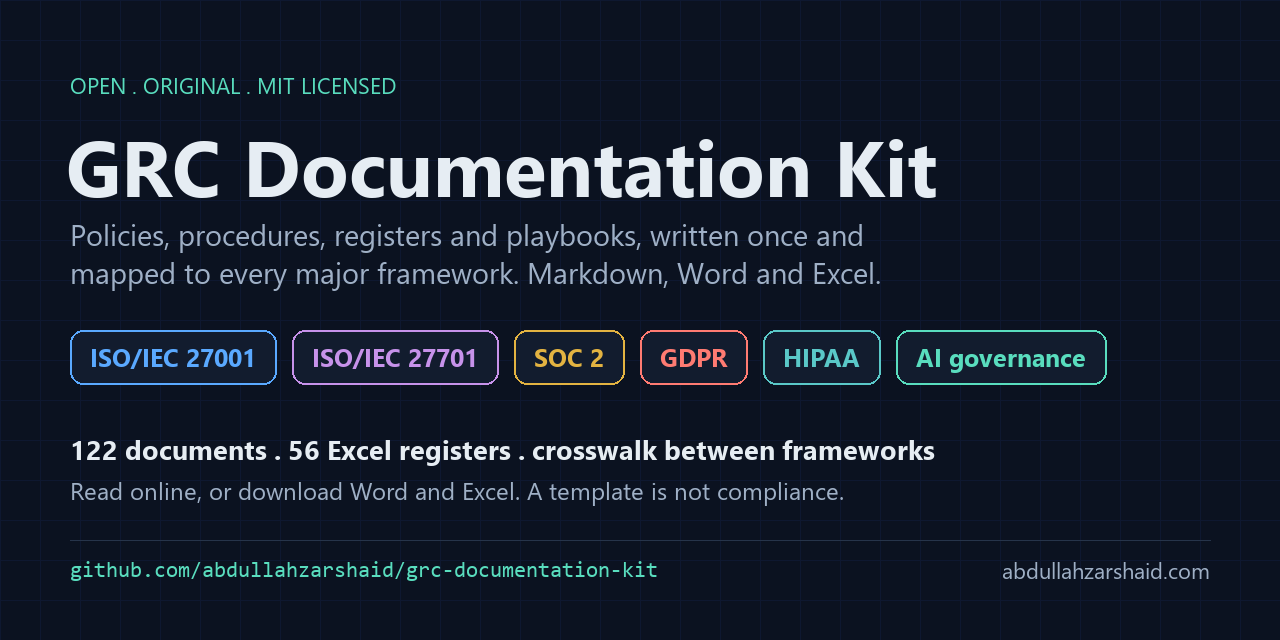
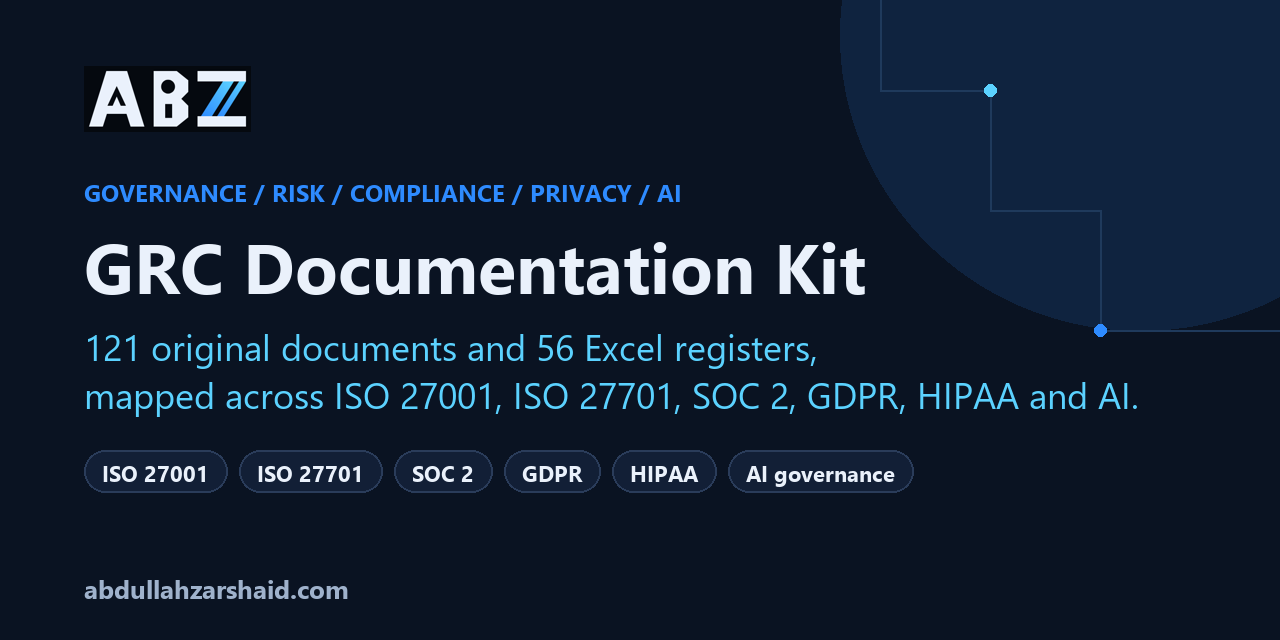
Unify the kit to the blue brand accent and refresh the social card

diff --git a/docs/index.html b/docs/index.html
@@ -12,12 +12,12 @@
 <meta name="twitter:description" content="Open, original templates for ISO 27001, ISO 27701, SOC 2, GDPR, HIPAA and AI governance.">
 <meta name="twitter:image" content="https://abdullahzarshaid.github.io/grc-documentation-kit/social-preview.png">
 <style>
-:root{--bg:#0b1220;--card:#121c2e;--ink:#e6edf3;--muted:#acbace;--acc:#59ddbe;--line:#26344a}
+:root{--bg:#0b1220;--card:#121c2e;--ink:#e6edf3;--muted:#acbace;--acc:#5bd2ff;--line:#26344a}
 *{box-sizing:border-box}body{margin:0;background:var(--bg);color:var(--ink);font:17px/1.65 system-ui,-apple-system,"Segoe UI",sans-serif}
 .wrap{max-width:1100px;margin:0 auto;padding:6vh 24px 48px}.eyebrow{letter-spacing:3px;font-size:12px;color:var(--acc);margin:0 0 10px}
 h1{font-size:clamp(30px,5vw,46px);line-height:1.15;margin:0 0 6px}h2.sub{font-weight:400;color:var(--muted);font-size:clamp(18px,2.6vw,24px);margin:0 0 18px}
 p.lead{max-width:820px;color:var(--muted)}.btns{display:flex;flex-wrap:wrap;gap:12px;margin:22px 0 10px}
-.button{display:inline-block;padding:13px 22px;border:1px solid var(--acc);border-radius:9px;color:var(--acc);text-decoration:none;font-weight:600}.button.primary{background:var(--acc);color:#07111a}.button:hover{filter:brightness(1.08)}
+.button{display:inline-block;padding:13px 22px;border:1px solid var(--acc);border-radius:9px;color:var(--acc);text-decoration:none;font-weight:600}.button.primary{background:#2e8bff;border-color:#2e8bff;color:#fff}.button:hover{filter:brightness(1.08)}
 .meta{color:var(--muted);font-size:14px;margin:6px 0 30px}h3{margin:38px 0 12px;font-size:22px}
 .grid{display:grid;grid-template-columns:repeat(auto-fill,minmax(320px,1fr));gap:14px}
 .card{display:block;background:var(--card);border:1px solid var(--line);border-radius:12px;padding:16px 18px;color:var(--ink);text-decoration:none}.card:hover{border-color:var(--acc)}

diff --git a/docs/index_template.html b/docs/index_template.html
@@ -12,12 +12,12 @@
 <meta name="twitter:description" content="Open, original templates for ISO 27001, ISO 27701, SOC 2, GDPR, HIPAA and AI governance.">
 <meta name="twitter:image" content="https://abdullahzarshaid.github.io/grc-documentation-kit/social-preview.png">
 <style>
-:root{--bg:#0b1220;--card:#121c2e;--ink:#e6edf3;--muted:#acbace;--acc:#59ddbe;--line:#26344a}
+:root{--bg:#0b1220;--card:#121c2e;--ink:#e6edf3;--muted:#acbace;--acc:#5bd2ff;--line:#26344a}
 *{box-sizing:border-box}body{margin:0;background:var(--bg);color:var(--ink);font:17px/1.65 system-ui,-apple-system,"Segoe UI",sans-serif}
 .wrap{max-width:1100px;margin:0 auto;padding:6vh 24px 48px}.eyebrow{letter-spacing:3px;font-size:12px;color:var(--acc);margin:0 0 10px}
 h1{font-size:clamp(30px,5vw,46px);line-height:1.15;margin:0 0 6px}h2.sub{font-weight:400;color:var(--muted);font-size:clamp(18px,2.6vw,24px);margin:0 0 18px}
 p.lead{max-width:820px;color:var(--muted)}.btns{display:flex;flex-wrap:wrap;gap:12px;margin:22px 0 10px}
-.button{display:inline-block;padding:13px 22px;border:1px solid var(--acc);border-radius:9px;color:var(--acc);text-decoration:none;font-weight:600}.button.primary{background:var(--acc);color:#07111a}.button:hover{filter:brightness(1.08)}
+.button{display:inline-block;padding:13px 22px;border:1px solid var(--acc);border-radius:9px;color:var(--acc);text-decoration:none;font-weight:600}.button.primary{background:#2e8bff;border-color:#2e8bff;color:#fff}.button:hover{filter:brightness(1.08)}
 .meta{color:var(--muted);font-size:14px;margin:6px 0 30px}h3{margin:38px 0 12px;font-size:22px}
 .grid{display:grid;grid-template-columns:repeat(auto-fill,minmax(320px,1fr));gap:14px}
 .card{display:block;background:var(--card);border:1px solid var(--line);border-radius:12px;padding:16px 18px;color:var(--ink);text-decoration:none}.card:hover{border-color:var(--acc)}

diff --git a/docs/kit.html b/docs/kit.html
@@ -12,7 +12,7 @@
 <meta name="twitter:description" content="Open, original templates for ISO 27001, ISO 27701, SOC 2, GDPR, HIPAA and AI governance.">
 <meta name="twitter:image" content="https://abdullahzarshaid.github.io/grc-documentation-kit/social-preview.png">
 <style>
-:root{--bg:#0b1220;--card:#121c2e;--ink:#e6edf3;--muted:#acbace;--acc:#59ddbe;--line:#26344a;--nav:300px}
+:root{--bg:#0b1220;--card:#121c2e;--ink:#e6edf3;--muted:#acbace;--acc:#5bd2ff;--line:#26344a;--nav:300px}
 *{box-sizing:border-box}html{scroll-behavior:smooth}body{margin:0;background:var(--bg);color:var(--ink);font:16px/1.65 system-ui,-apple-system,"Segoe UI",sans-serif}
 header{position:sticky;top:0;z-index:5;background:var(--card);border-bottom:1px solid var(--line);display:flex;gap:14px;align-items:center;padding:10px 18px}
 header b{color:var(--acc);letter-spacing:2px;font-size:12px}header a{color:var(--muted);text-decoration:none;font-size:14px}header a:hover{color:var(--acc)}

diff --git a/docs/kit_template.html b/docs/kit_template.html
@@ -12,7 +12,7 @@
 <meta name="twitter:description" content="Open, original templates for ISO 27001, ISO 27701, SOC 2, GDPR, HIPAA and AI governance.">
 <meta name="twitter:image" content="https://abdullahzarshaid.github.io/grc-documentation-kit/social-preview.png">
 <style>
-:root{--bg:#0b1220;--card:#121c2e;--ink:#e6edf3;--muted:#acbace;--acc:#59ddbe;--line:#26344a;--nav:300px}
+:root{--bg:#0b1220;--card:#121c2e;--ink:#e6edf3;--muted:#acbace;--acc:#5bd2ff;--line:#26344a;--nav:300px}
 *{box-sizing:border-box}html{scroll-behavior:smooth}body{margin:0;background:var(--bg);color:var(--ink);font:16px/1.65 system-ui,-apple-system,"Segoe UI",sans-serif}
 header{position:sticky;top:0;z-index:5;background:var(--card);border-bottom:1px solid var(--line);display:flex;gap:14px;align-items:center;padding:10px 18px}
 header b{color:var(--acc);letter-spacing:2px;font-size:12px}header a{color:var(--muted);text-decoration:none;font-size:14px}header a:hover{color:var(--acc)}
